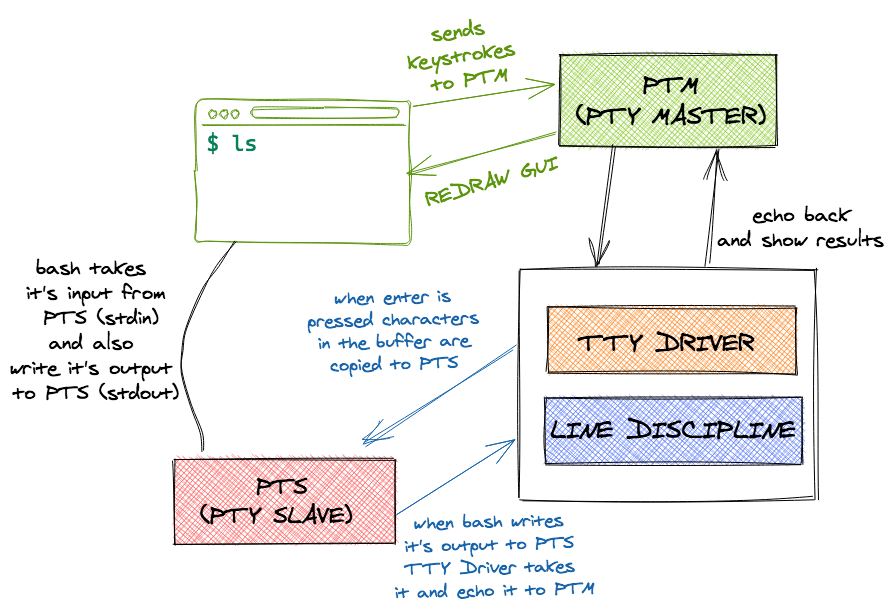
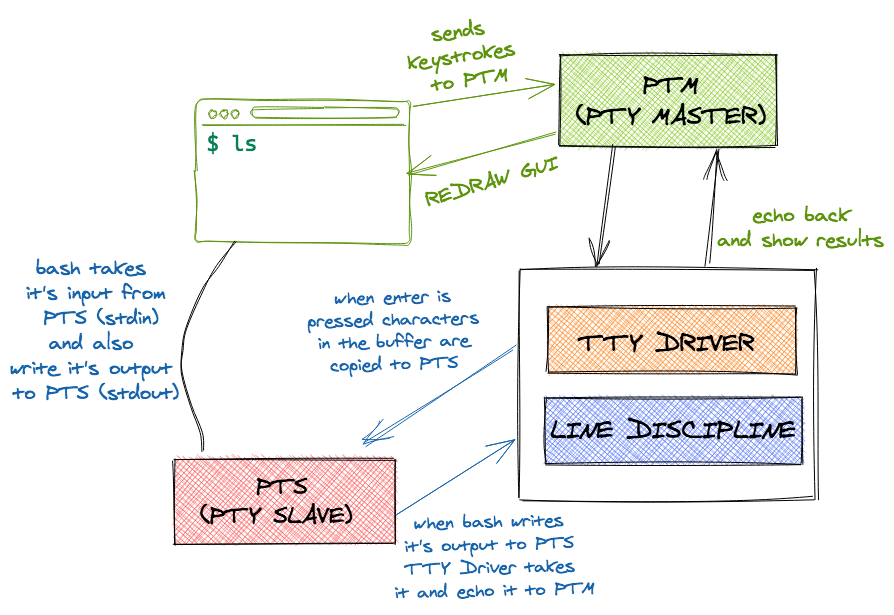
Add tty post

Changed region(s): [[0.0, 0.4325, 0.2114, 0.6488], [0.7852, 0.3398, 0.9966, 0.4016]]

diff --git a/_posts/2021-02-16-terminal-under-the-hood.md b/_posts/2021-02-16-terminal-under-the-hood.md
@@ -1,0 +1,227 @@
+---
+title:  "Terminal under the hood - TTY & PTY"
+last_modified_at: 2021-02-17T23:20:25-04:00
+classes: wide
+author_profile: true
+author: yakout-linux
+toc: true
+categories:
+  - blog
+tags:
+  - [linux, tty, unix]
+excerpt: ""
+header:
+  overlay_image: /assets/tty/tty_unix.png
+---
+
+# Introduction
+
+I found that I spend almost half of my day in the terminal, it has been my second home, so I try to understand every thing in it and how it works, every trick and tip I can do with it and install some cool and useful CLI tools out there to use them in my daily programming life to make it easier. So it was important for me to understand how it works.
+
+I did some research in this area and I wrote this blog post that talks about very important definitions in the terminal word like TTY and PTY which are very important terms that every developer and Linux advanced user should know.
+
+
+# History
+
+To avoid being boring, I won't say much in this section I just want to give you a nice and important overview about TTY that will help you understand it's evolution. If you don't like history you can jump to the next section.
+
+`tty` is an abbreviation for `Teletype` which is basically a machine that sends the keystrokes you typed on the keyboard through a physical cable that is connected to another physical machine that will interpret these keystrokes encoded in electric signals and prints them on a real paper.
+
+<figure><a href="/assets/tty/tty_brand.png"><img src="/assets/tty/tty_brand.png"></a></figure>
+
+When computers were invented, engineers decided to reuse those teletypes to communicate to them instead of inventing new devices specially for them.
+
+<figure><a href="/assets/tty/tty_old_2.png"><img src="/assets/tty/tty_old_2.png"></a></figure>
+
+The IBM 7040. IBM Selectric-typewriter-based terminals appear to the left and right, probably locally attached to the 7040 as consoles. [source](http://www.columbia.edu/cu/computinghistory/1965.html)
+
+Here is another clear photo of IBM Selectric-typewriter ([source](https://www.ibm.com/ibm/history/ibm100/images/icp/Z491903Y91074L07/us__en_us__ibm100__selectric__selectric_2__900x746.jpg))
+
+<figure><a href="/assets/tty/tty_old_1.png"><img src="/assets/tty/tty_old_1.png"></a></figure>
+
+When talking about TTY I love to show this awesome picture (Blog post header photo). It really shows a lot of things!
+
+<figure><a href="/assets/tty/tty_unix.png"><img src="/assets/tty/tty_unix.png"></a></figure>
+
+In this picture you can find Ken Thompson (co-invented Golang) and Dennis Ritchie (created C programming language) both were working on developing the first version of Unix.
+In front of them, you can see the 16-bit minicomputers [PDP-11](https://en.wikipedia.org/wiki/PDP-11) and Two Teletype model [ASR 33](https://en.wikipedia.org/wiki/Teletype_Model_33) terminals, one of them Ken is typing on. ([source](http://www.stargatemuseum.org/html/dennis_ritchie__ken_thompson__.html))
+
+- In the 1970s there were two major types of computer terminals available, Teletype 33 and IBM Selectric Terminal.
+
+    <figure><a href="/assets/tty/tty_original.png"><img src="/assets/tty/tty_original.png"></a></figure>
+
+    Teletype 33
+
+ASR 33 machines were predominantly used as hardcopy terminals for early computers before electronic terminals with screen existed.
+
+Later as the technology improved and video displays were introduced, CRT terminals eventually dethroned the Teletypes.
+
+<figure><a href="/assets/tty/crt_tty.png"><img src="/assets/tty/crt_tty.png"></a></figure>
+
+That's it enough history for now let's jump to TTY in our modern computers.
+
+---
+
+# What is TTY
+
+In this section we are going to understand how computers at the end of the cable dealt with issues like seeing what has been typed and erasing with backspace, and how this is related to modern computers terminals.
+
+This is a diagram of how teletypes used to work in early computers
+
+<figure><a href="/assets/tty/old_tty_diagram.png"><img src="/assets/tty/old_tty_diagram.png"></a></figure>
+
+As we see, Teletype is connected through a pair of wires to UART (Universal Asynchronous Receiver and Transmitter). The UART driver manages the physical transmissions of bytes and sends them to the line discipline (LDISC) which is provided by the kernel to allow editing commands features like backspace, erase word, and clear line, it also handles special characters such as the interrupt character (CTRL + C).
+
+Advanced applications like vim and ssh disables these features by putting the line discipline into raw mode, so they can handle all these stuff themselves.
+
+The kernel provides many line disciplines but only one is enabled by default and connected to a serial device. The default one, which provides line editing, is called `N_TTY`. 
+
+The line discipline does not handle keys like Up, Left, Down, Right, that's why when you press them you will see something like `^[A` the `^[` is called the escape sequence. the terminal emulator encodes keystrokes that has no character representation
+{: .notice--success}
+
+The TTY driver is also provided by the kernel, it implements session management which will help user to have many processes running at the same time and only interacting with foreground process which his/her input will be redirected to it and only the foreground process will be allowed to send output to the TTY device.
+
+In modern computers, TTY driver and line discipline behave the same, but there is no UART or physical terminal involved anymore.
+
+<figure><a href="/assets/tty/tty_diagram.png"><img src="/assets/tty/tty_diagram.png"></a></figure>
+
+A seat consists of all hardware devices (display, keyboard, mouse ..) assigned to a specific workplace.
+
+💡 In Linux you can list seats using `loginctl list-seats`, and `loginctl seat-status seat0` to list devices assigned to seat `seat0`
+{: .notice--info}
+
+💡 There are 7 ttys in the system, to switch to one of them use CTRL + ALT + F[1 - 7].<br />
+In ArchLinux F7 will get you back to the GUI while in ubuntu it's F2, you can also use `chvt [tty number]` to switch between ttys in the terminal. (`chvt` stands for change virtual terminal)<br /><br />
+Some people use a tty to run commands instead of a terminal emulator in the GUI if they are doing a long running task (e.g system update or moving home directory to another hard disk) and they are afraid the graphical desktop environment (window manager) will crash or freezes causing issues to the task.
+{: .notice--success}
+
+**Fun fact:**<br />Terminal emulator is launched from a graphical environment that is itself launched from a virtual terminal.
+{: .notice--success}
+
+**Recap:**
+- The words terminal and TTY device are used interchangeably.
+- Terminal used to be a physical device that sends characters to the TTY driver.
+- The kernel in modern computers emulates the physical terminal device.
+- A terminal emulator is as dumb as the physical terminals used to be, it listens for events coming from the keyboard and sends it down to the driver. The difference is that there is no physical device or cable which is connected to the TTY driver.
+- line discipline is implemented by the TTY driver which is a kernel module.
+
+
+# What's a pseudo terminal PTY? (PTY vs TTY)
+
+Simply It's Teletype emulated by a computer program running in the user land, in contrast, TTY is a kernel program/emulator.
+
+> The need to move the terminal emulation in user space, while still keeping the TTY subsystem that provides session management and line discipline, led to the development of pseudo terminals.
+
+**Note:** The difference between kernel space and user space is that kernel space has access to the hardware directly while the user space interacts with the kernel only.
+{: .notice--success}
+
+PTY will behave like TTY, except that there is no attachment to a seat; you can open several terminal emulator windows at the same time (multiple PTYs) and display them side by side, having different sessions running in parallel.
+
+PTY is pair of master and slave sides, Writing to the master is exactly like typing on a terminal, thus the master pseudo-device acts like the person sitting in front of the physical computer text terminal, whereas the slave pseudo-device emulates a physical computer text terminal, so anything you write in the master will appear in the slave and anything written in the slave will appear to the master.
+
+when you open a terminal emulator program, it forks a process that requests a *pty* pair from the OS and starts a new session which is a group of processes running under control of a single user (i.e shell), it is defined by the first process that attach the pts (e.g bash).
+
+The slave part (pts) is represented by a file in /dev/pts/N where N is a number, you can know the what slave your session is attached to using `tty` or `ps` commands.
+
+The master part (ptm), is not represented on the file system. It is represented by a file descriptor obtained by the system call that creates a pty.
+
+**Note:**
+In Linux, a process requests a pty from OS by opening the special device `/dev/ptmx`.
+{: .notice--success}
+
+This below diagram shows how your favorite terminal emulator program works.
+
+<figure><a href="/assets/tty/pty_diagram.png"><img src="/assets/tty/pty_diagram.png"></a></figure>
+
+## Shells & Sessions
+
+A shell is what allows you to interact with your computer and OS, when I mention the word `session` , it means shell session which acts as a layer between the kernel and the user, so whenever you run a command in your terminal emulator it's the shell (e.g bash) that listens for them on the PTY slave attached to it, captures them, communicate with the kernel then write the output back to the PTY slave which the TTY driver will see it and send it to the PTY master so it can be shown in the terminal emulator UI.
+
+The process that is running shell is known as session leader. Every other process that is running in the terminal is child of this session leader. These child processes form process groups that are controlled by this session leader (parent process), and when you logout from the terminal, kernel sends SIGHUP (kill -1) to the session leader, that will propagate this signal to each child process.
+
+Each session is managed by a session leader, the shell, which is cooperating tightly with the kernel using a complex protocol of signals and system calls.
+
+# Example: What happens when you type `ls` command in terminal?
+
+1. You open the terminal emulator which requests a `pty` from the OS that will return a pair of file descriptors for the master and slave sides, then starts the bash program as a sub-process and attach it to the slave part.
+2. The terminal emulator sends the characters to the master side, the TTY driver takes the character echo them back to the master and buffers them.
+3. When you hit enter the TTY driver copies the characters in the buffer to the slave.
+4. The bash takes it's input from the slave (std input steam points to pts) so when you type `ls` and press enter it will start a child sub-process, executes the command and writes the output to the std output which also points to the pts.
+5. The tty driver will take the output from pts and echo it to the master
+6. The terminal emulator program will redraw it's GUI to show you the results of commands you typed.
+
+# Hands on using python
+
+To illustrate how the stdin, stdout, and stderr are attached to the pts allocated by the shell, let's run this python3 code from the terminal:
+
+```python
+# pty.py
+
+import sys
+
+print(f'stdin: {sys.stdin.isatty()}')
+print(f'stdout: {sys.stdout.isatty()}')
+print(f'stderr: {sys.stderr.isatty()}')
+```
+
+`isatty` returns True if the file is associated with a terminal device.
+
+```python
+$ python3 pty.py
+stdin: True
+stdout: True
+stderr: True
+```
+
+so if we run the script using:
+
+```python
+$ echo 'hi' | python3 tty.py
+stdin: False
+stdout: True
+stderr: True
+```
+
+we can notice that stdin is no more a tty since it takes the input from a pipe.
+
+You can also try:
+
+```python
+$ python3 tty.py > output && cat output
+stdin: True
+stdout: False
+stderr: True
+```
+
+You can also write to the tty directly try opening a two terminals side by side, then run `tty` on one terminal so you know the path of the `pts` then, on the other terminal run this after replacing `/dev/tty` with the pts path of the other terminal:
+
+```ruby
+python3 -c 'print("stdin"); open("/dev/tty", "w").write("tty\n")' &>/dev/null
+```
+
+Even though you have redirected your standard streams this will write to the other terminal.
+despite it's a bad idea to write to the tty directly as it can mess up the display
+the sudo command does that. (This info may help you debug some issues ;) )
+
+**Important note**:<br />
+If you run `ls -l /dev` you will find some entries like this
+`crw--w---- 1 root tty 4, 0 Apr 17 23:10 /dev/tty0`
+The **c** at the beginning means it is a character device. Although these files have the same primitives of regular files (open, read, write, etc.), they are not a representation of data on the disk - that is, they might be weird.
+{: .notice--info}
+
+
+# Useful Resources about the topic
+
+1. [http://www.linusakesson.net/programming/tty/](http://www.linusakesson.net/programming/tty/)
+2. [https://www.yabage.me/2016/07/08/tty-under-the-hood/](https://www.yabage.me/2016/07/08/tty-under-the-hood/)
+3. [https://dev.to/napicella/linux-terminals-tty-pty-and-shell-192e](https://dev.to/napicella/linux-terminals-tty-pty-and-shell-192e)
+4. [https://www.win.tue.nl/~aeb/linux/lk/lk-11.html](https://www.win.tue.nl/~aeb/linux/lk/lk-11.html)
+5. [https://www.youtube.com/watch?v=SYwbEcNrcjI](https://www.youtube.com/watch?v=SYwbEcNrcjI)
+6. [ASR 33 demo] [https://www.youtube.com/watch?v=S81GyMKH7zw](https://www.youtube.com/watch?v=S81GyMKH7zw)
+7. [https://www.freedesktop.org/wiki/Software/systemd/multiseat/](https://www.freedesktop.org/wiki/Software/systemd/multiseat/)
+8. [https://man7.org/linux/man-pages/man4/ptmx.4.html](https://man7.org/linux/man-pages/man4/ptmx.4.html)
+9. [https://unix.stackexchange.com/questions/117981/what-are-the-responsibilities-of-each-pseudo-terminal-pty-component-software](https://unix.stackexchange.com/questions/117981/what-are-the-responsibilities-of-each-pseudo-terminal-pty-component-software)
+10. [https://yannik520.github.io/tty/tty_driver.html](https://yannik520.github.io/tty/tty_driver.html)
+11. [https://www.linux.it/~rubini/docs/serial/serial.html](https://www.linux.it/~rubini/docs/serial/serial.html)
+12. [https://kb.novaordis.com/index.php/Linux_TTY](https://kb.novaordis.com/index.php/Linux_TTY)
+13. [https://en.wikipedia.org/wiki/Devpts](https://en.wikipedia.org/wiki/Devpts)

diff --git a/_pages/about.md b/_pages/about.md
@@ -2,15 +2,20 @@
 permalink: /about/
 title: "About"
 excerpt: "Ahmed Yakout"
-last_modified_at: 2020-07-30T18:48:13-05:00
+last_modified_at: 2021-02-17T03:07:13-05:00
 header:
   overlay_image: /assets/images/mm-home-page-feature2.jpg
 ---
 
-I am a Computer And Systems Engineering Graduate from Alexandria University, interested in Big Data, Machine learning, Deep learning, Distributed Systems, Databases, Backend, Math, and all other things data!
+I am a Computer And Systems Engineering Graduate from Alexandria University, I used to have interests in Big Data, Machine learning, and Deep learning. But now I am focused more in Distributed Systems, Cloud Systems, Databases, Scalabilty, Performance Optimization, Operating Systems, and all other things Backend!
 
-I document what I learn in my daily life, and also write about problems that I face and how I solved them, as I believe that this is the best way to guarantee an effective learning and a good, organized reference to look back in the future.
+<!-- I document what I learn in my daily life, and also write about problems that I face and how I solved them, as I believe that this is the best way to guarantee an effective learning and a good, organized reference to look back in the future. -->
 
-Note: I am available for weddings, and other events that are likely to include food, chocolate and cupcakes.
+**Note:** I am available for weddings, and other events that are likely to include food, chocolate and cupcakes.
+{: .notice}
+
+<a href="https://freebsdfoundation.org/donate" target="_blank">
+<img src="https://freebsdfoundation.org/wp-content/uploads/2015/12/proud_donor.gif" alt="Proud Donor" title="FreeBSD Foundation Donor" ></a>
+
 
 ---
